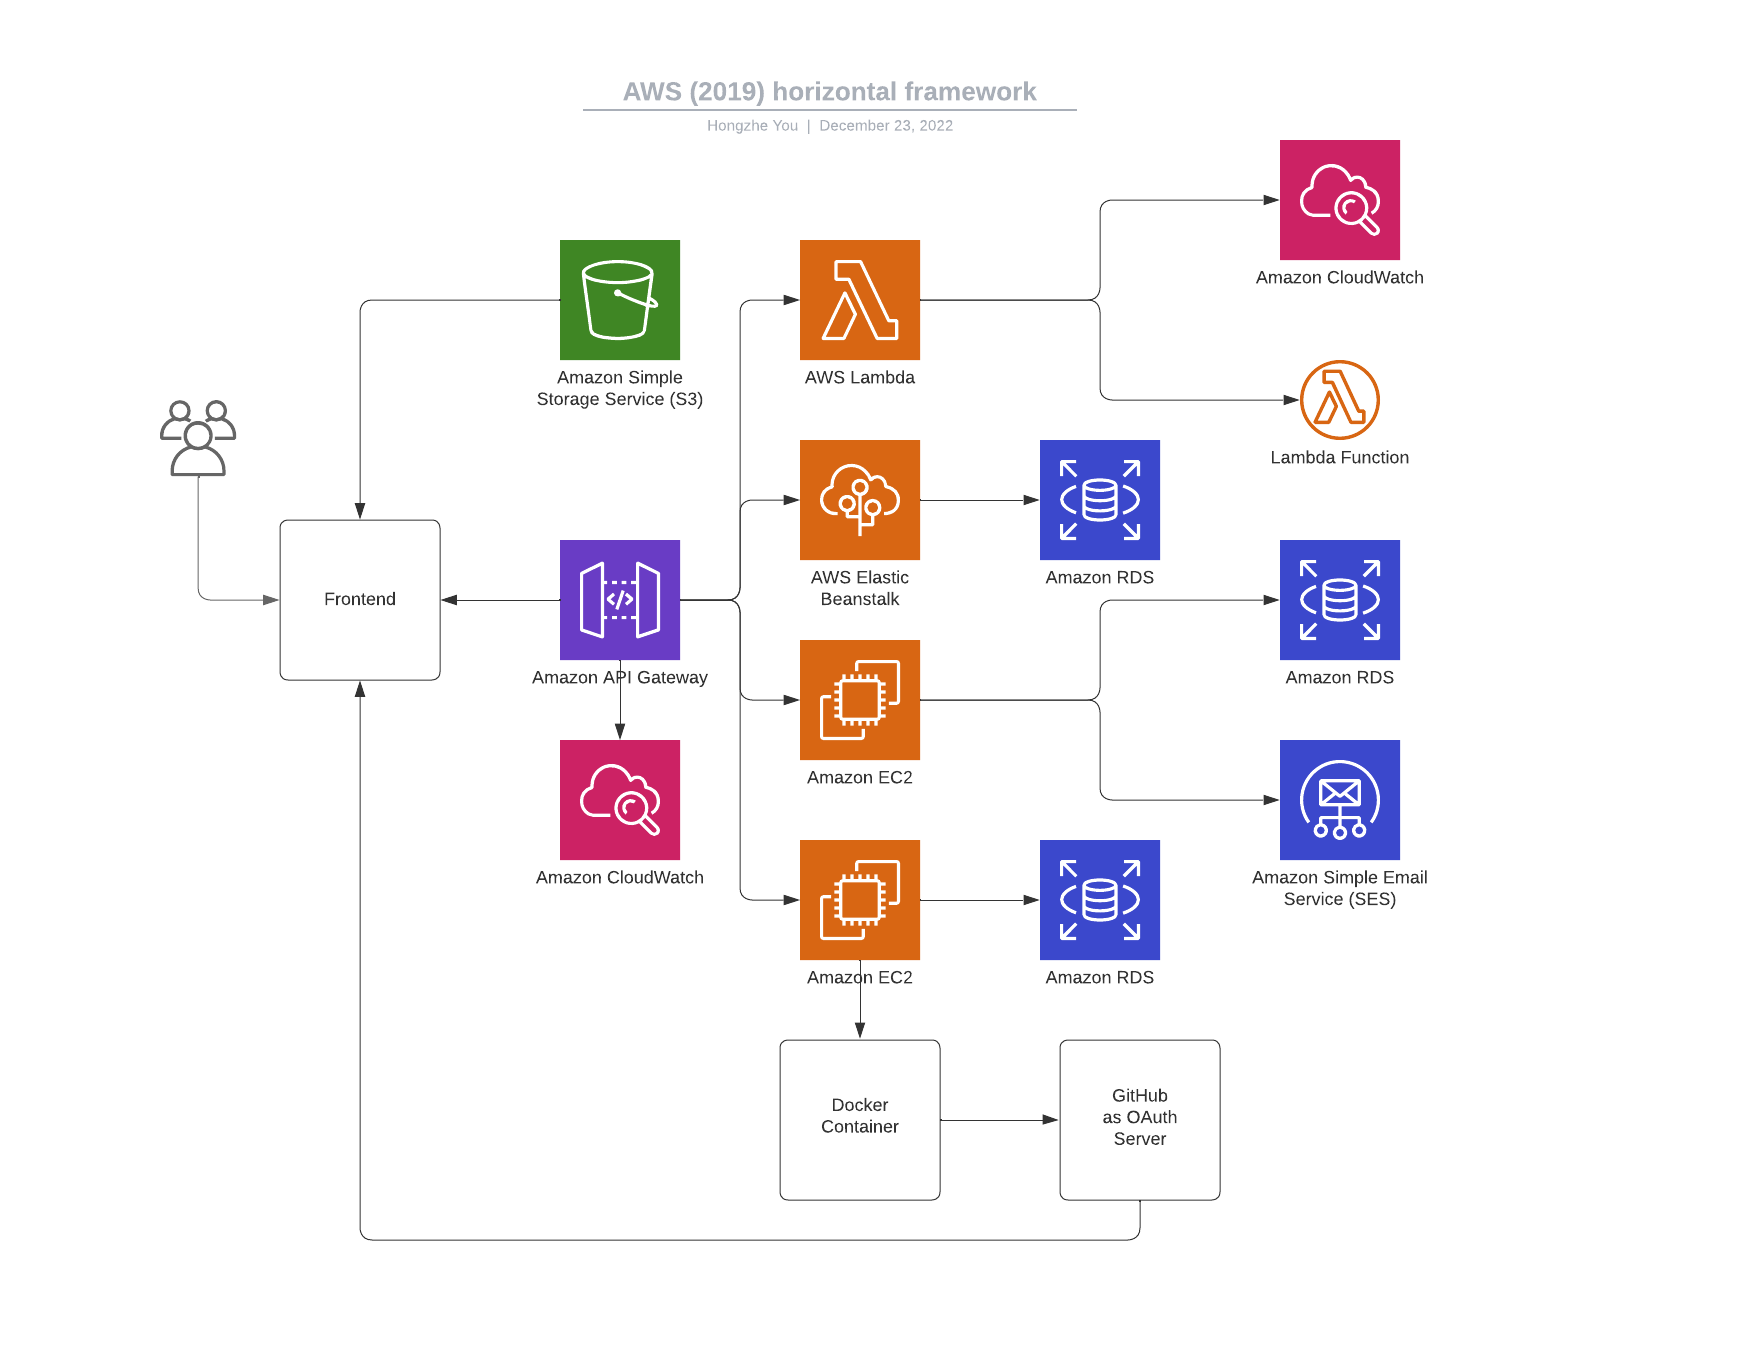
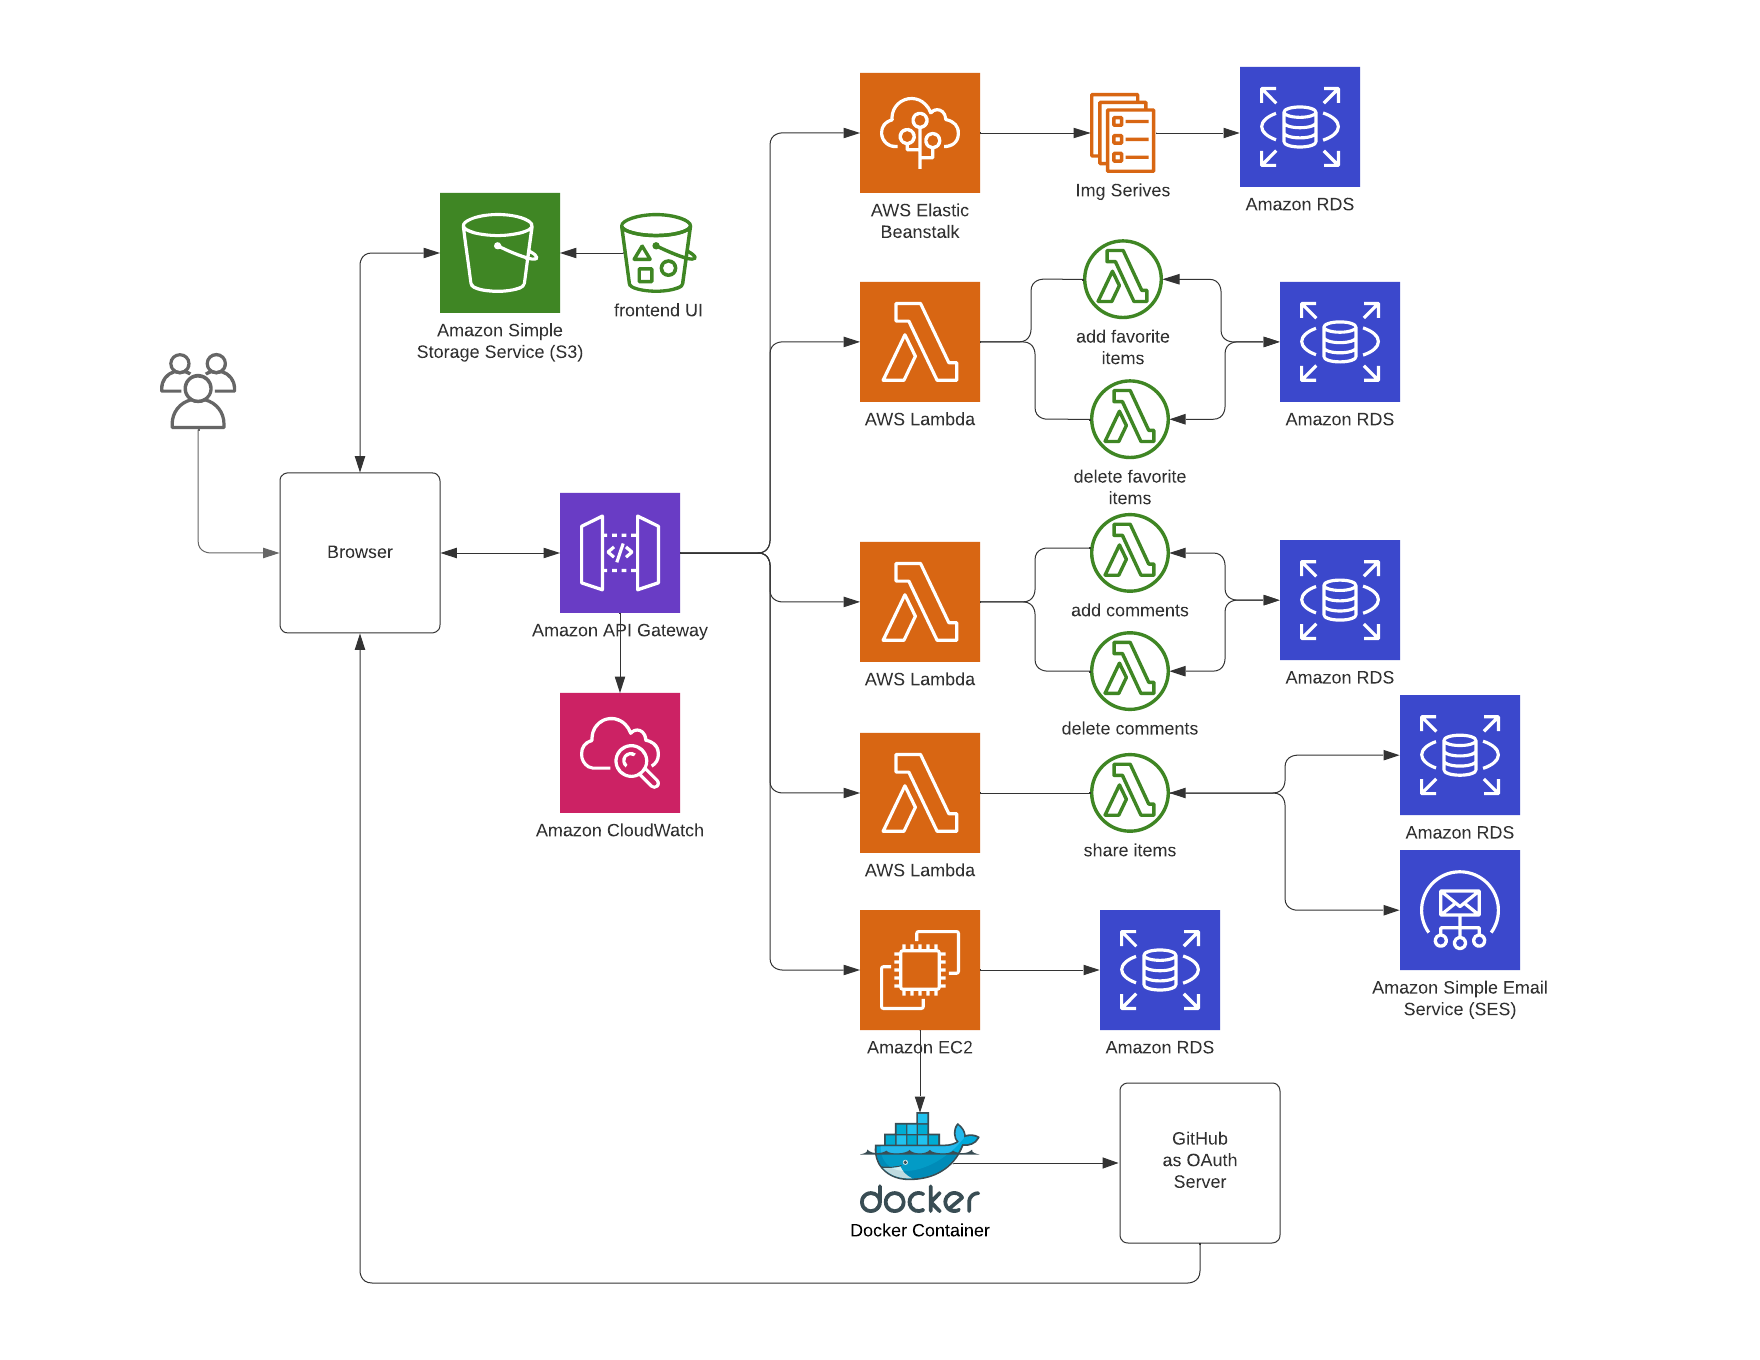
finish readme

diff --git a/README.md b/README.md
@@ -25,5 +25,5 @@ Implemented PUT, GET, and DELETE for like and comment, respectively,
 and SES support as well.   
 ![Lambda Functions](./images/Lambda%20Functions.png)
 ### Amazon RDS
-Used to store user information, images, likes and comments.
-
+Used to store user information, images, likes and comments.   
+![Databases](./images/Database.png)
